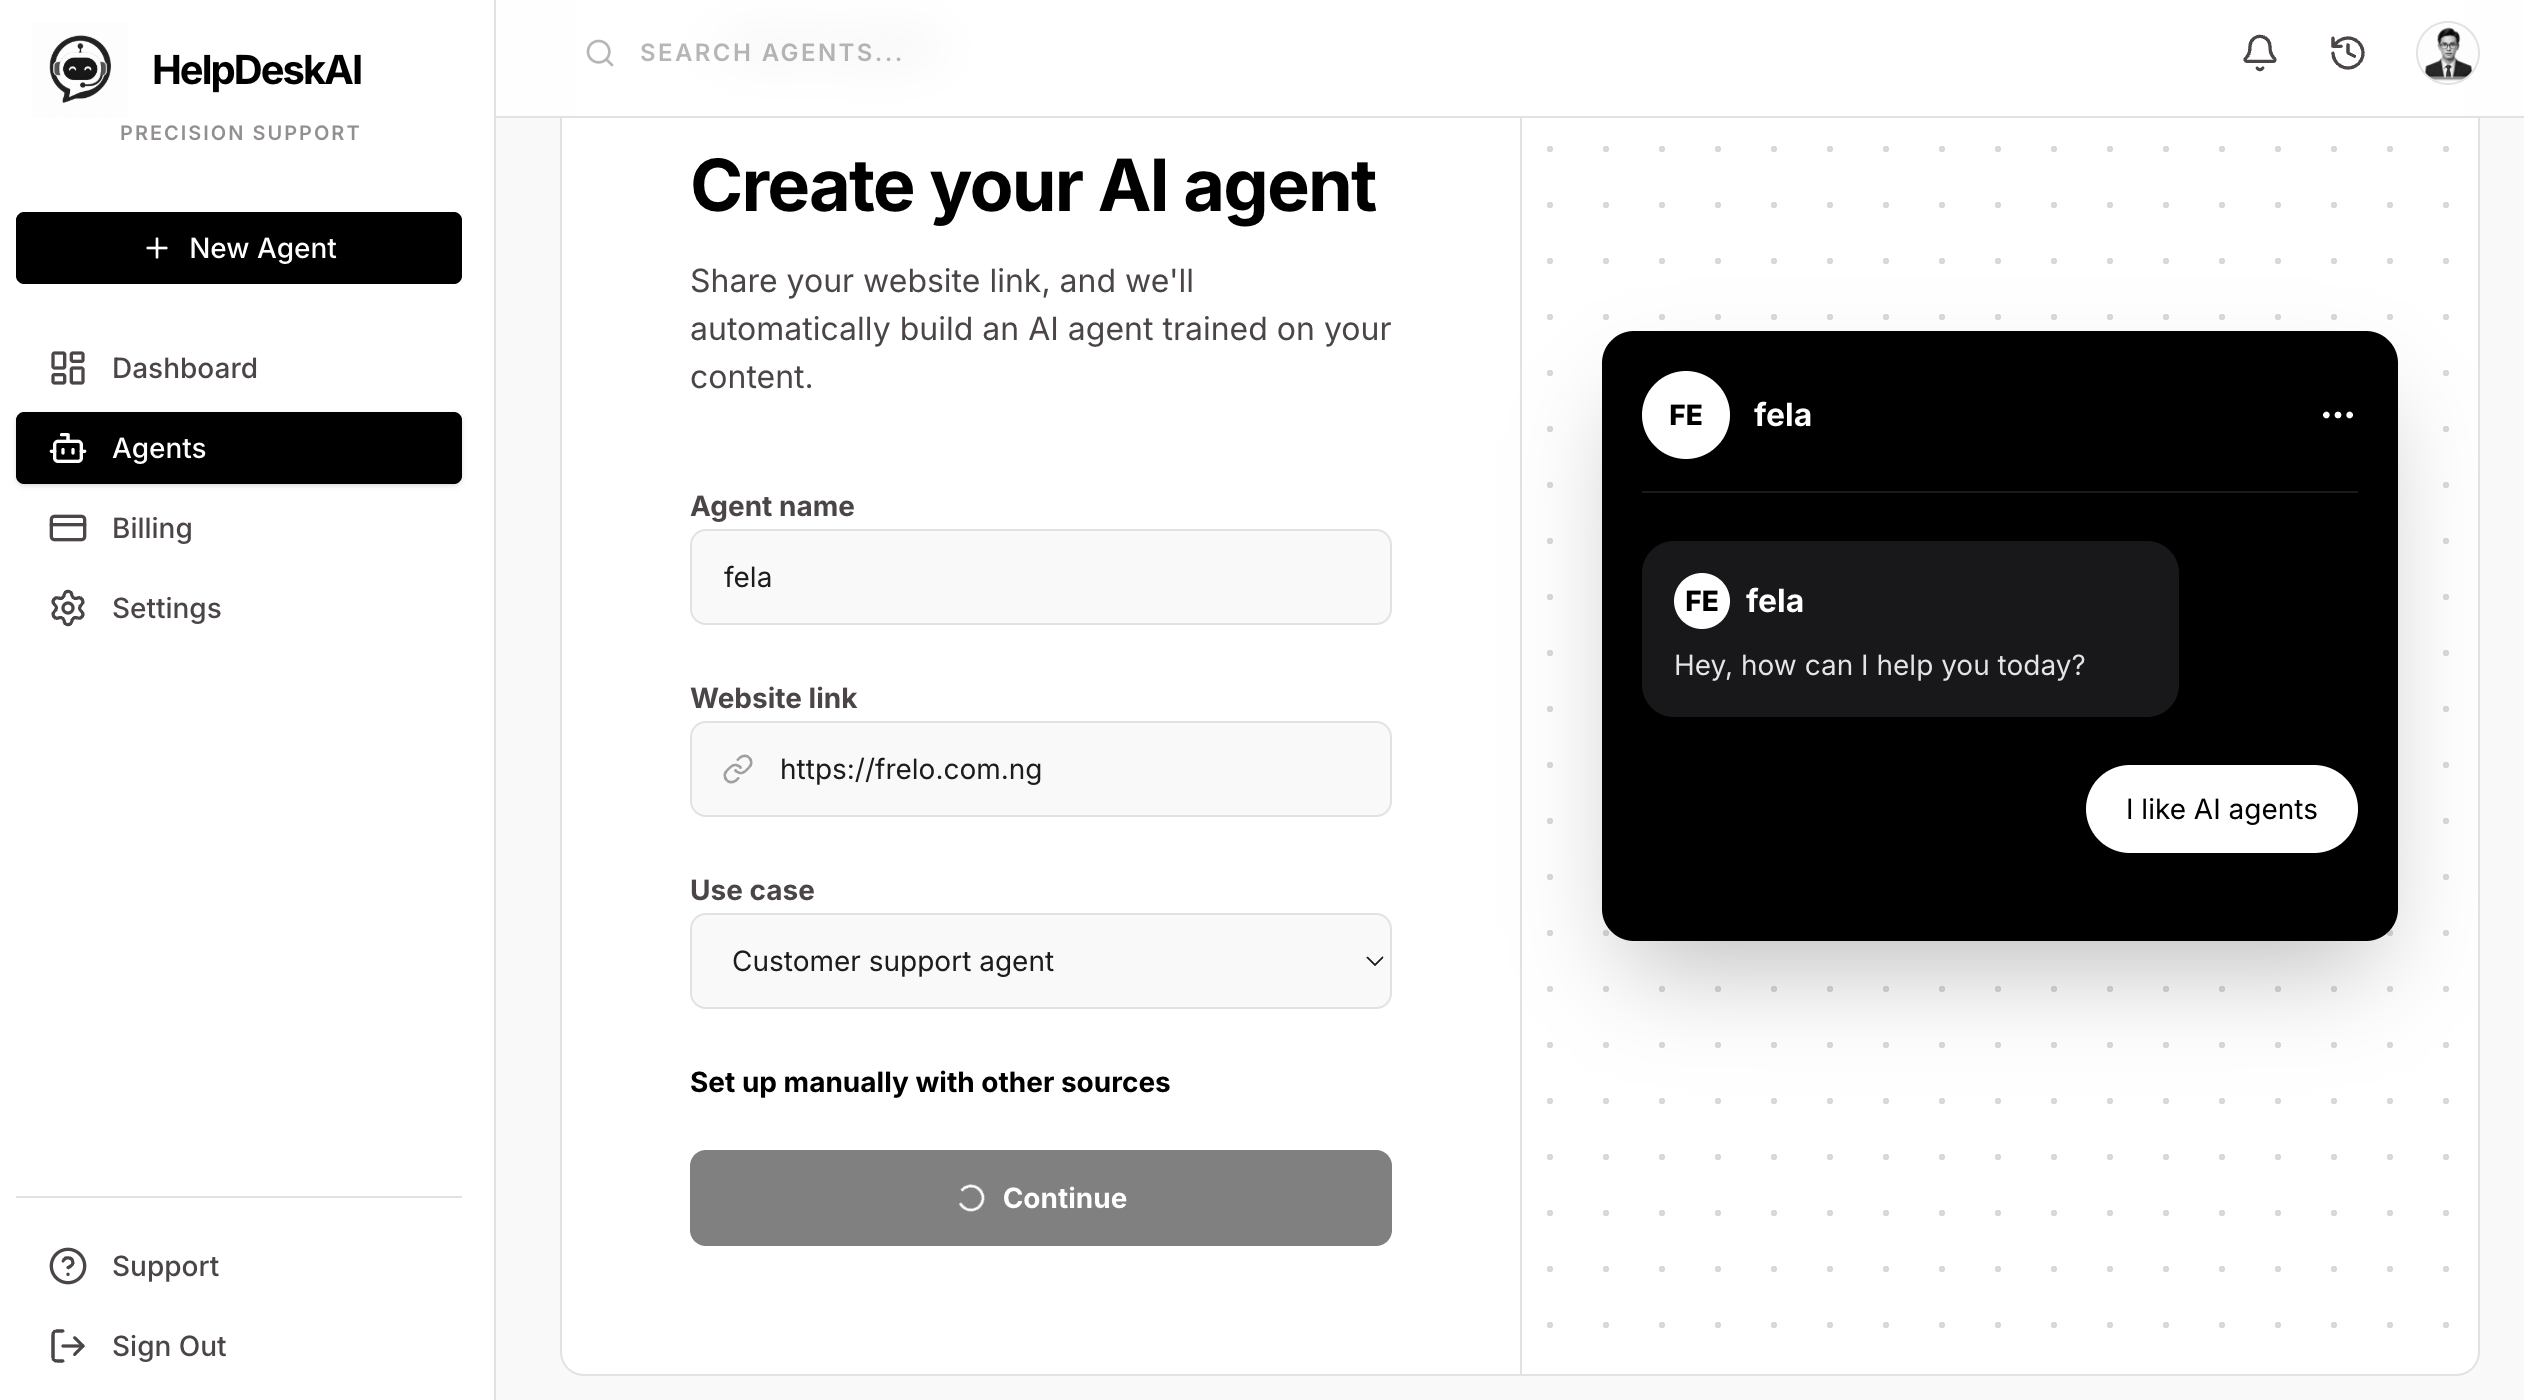
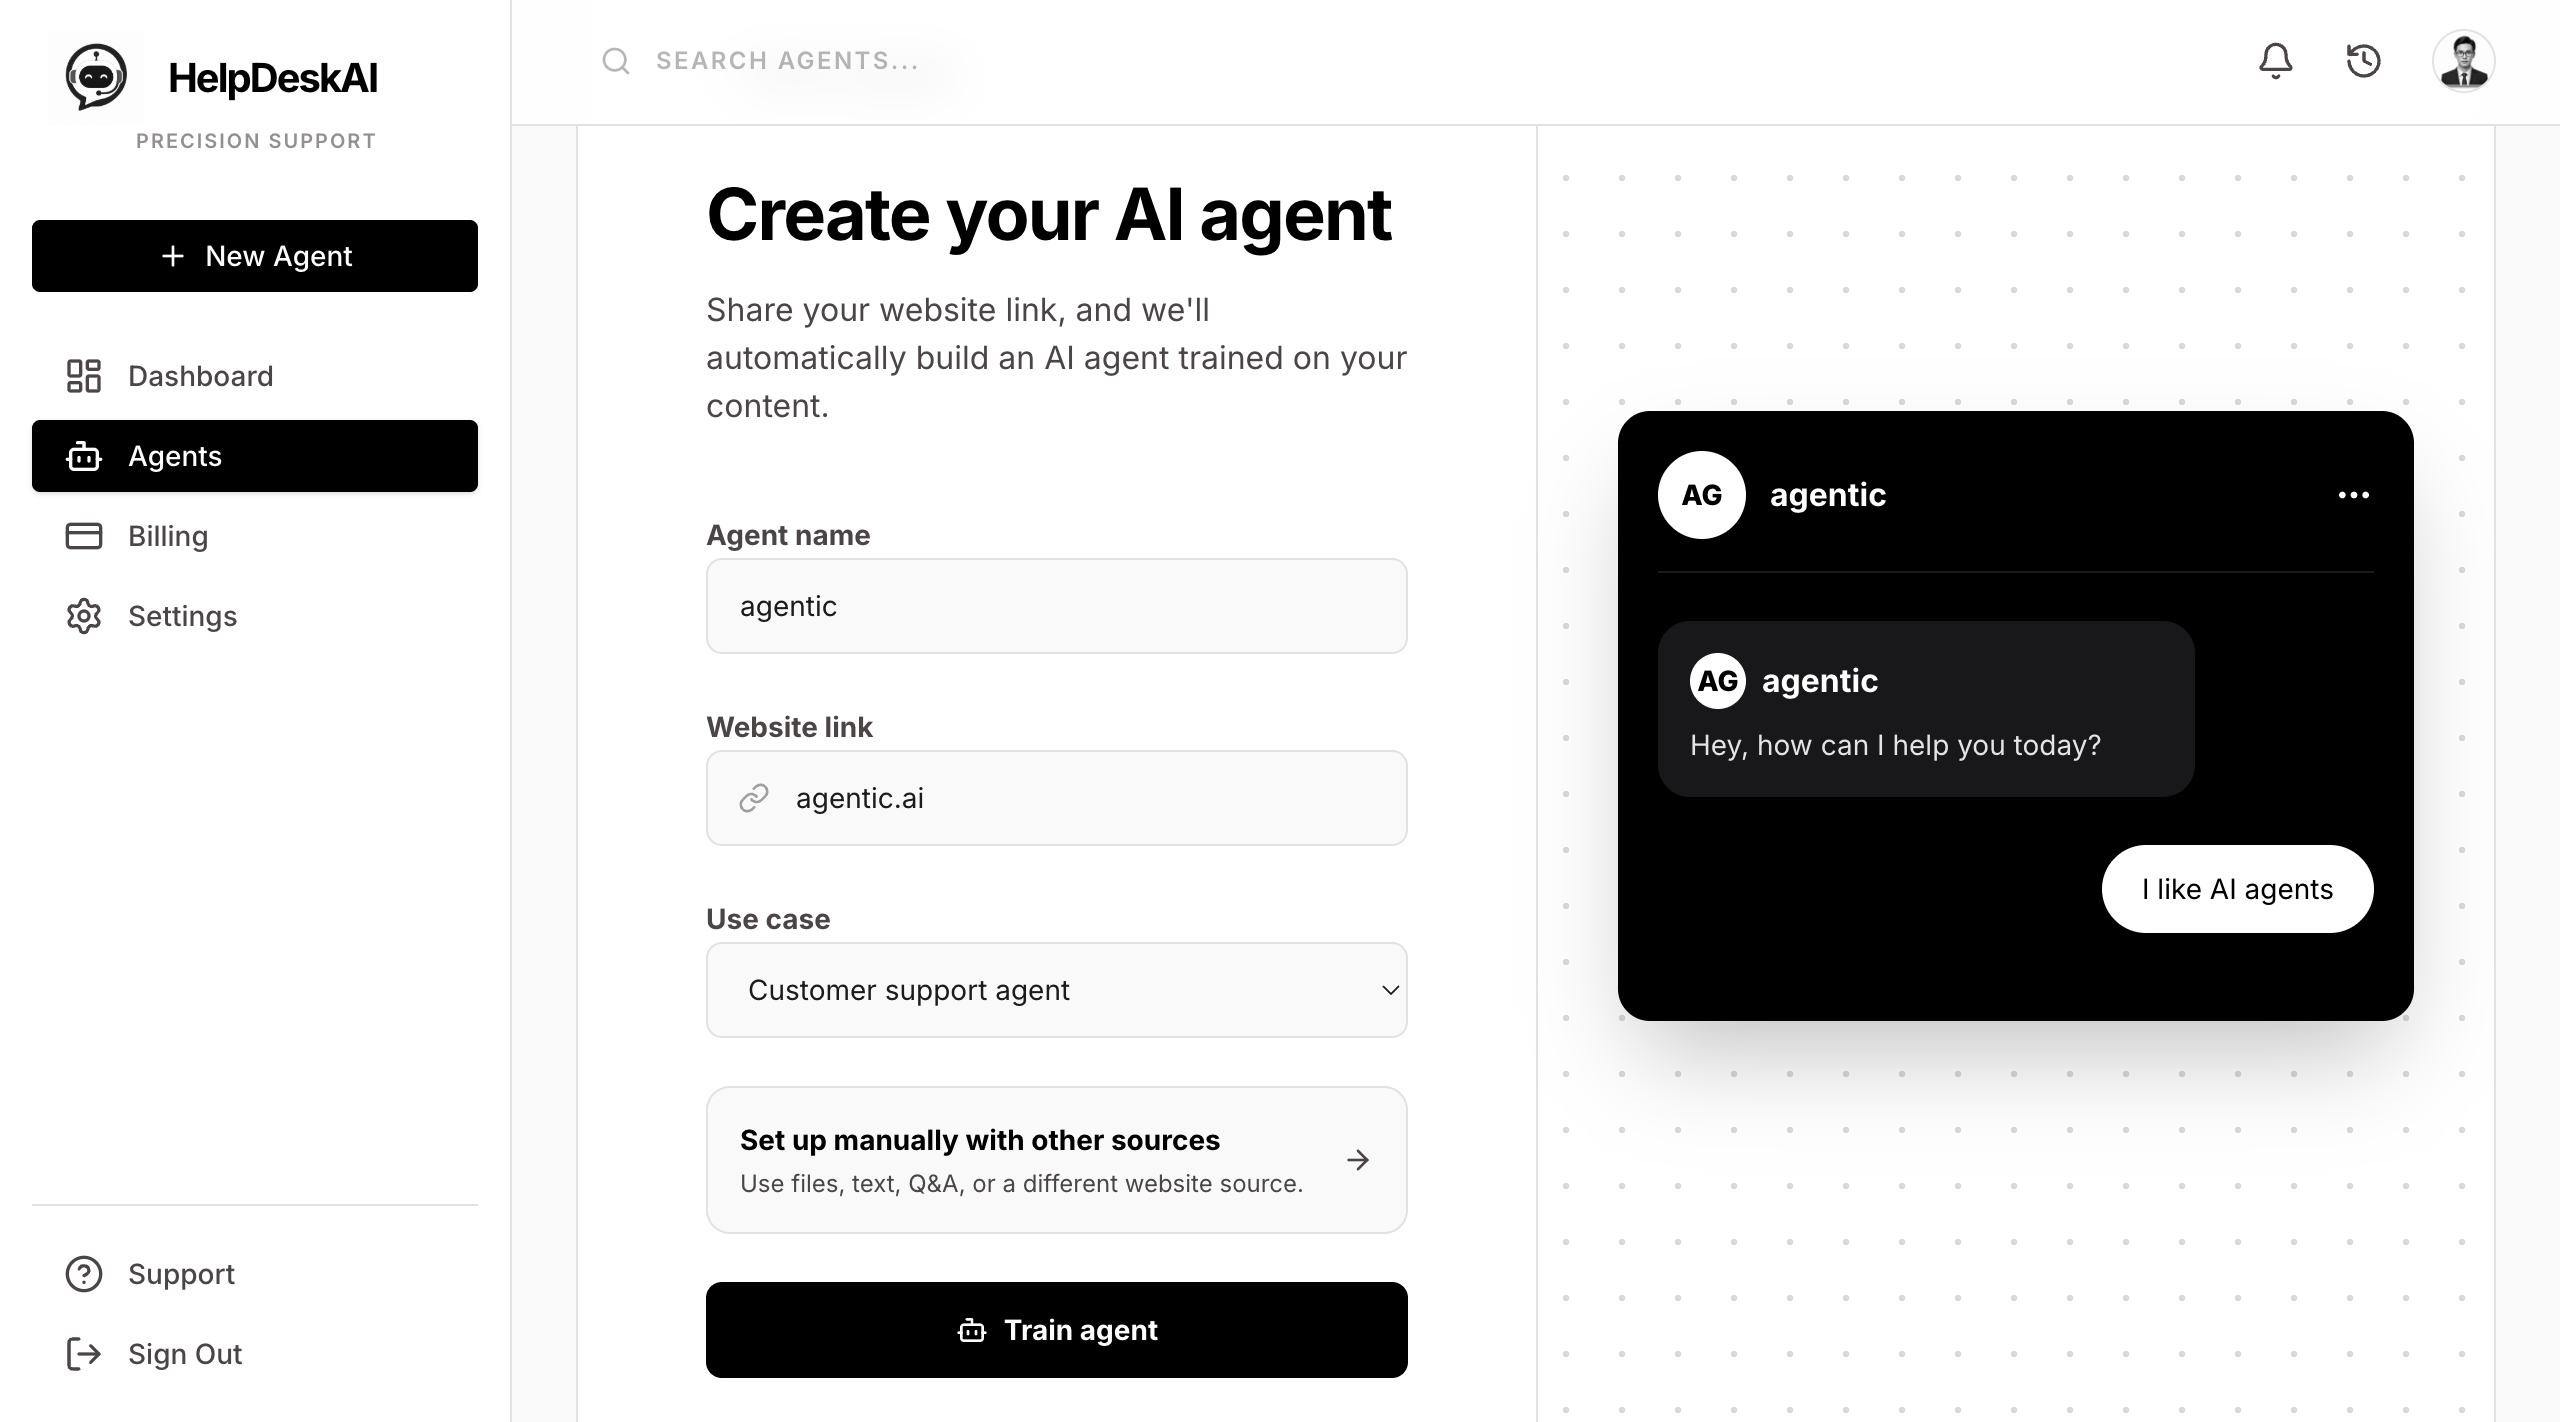
security audit

diff --git a/api/scrape/scrape.py b/api/scrape/scrape.py
@@ -16,7 +16,29 @@ class ScrapeRequest(BaseModel):
     url: str
 
 
+import socket
+import ipaddress
+from urllib.parse import urlparse
+
+def is_safe_url(url: str) -> bool:
+    try:
+        parsed = urlparse(url)
+        if parsed.scheme not in ("http", "https"):
+            return False
+        hostname = parsed.hostname
+        if not hostname:
+            return False
+        ip = socket.gethostbyname(hostname)
+        ip_obj = ipaddress.ip_address(ip)
+        if ip_obj.is_private or ip_obj.is_loopback or ip_obj.is_link_local or ip_obj.is_multicast:
+            return False
+        return True
+    except Exception:
+        return False
+
 async def scrape_url_content(url: str) -> dict:
+    if not is_safe_url(url):
+        raise HTTPException(status_code=400, detail="Invalid or restricted URL provided")
     # Returns dict with 'text', 'title', and 'timestamp' for compatibility
     try:
         async with httpx.AsyncClient(timeout=10.0) as client:

diff --git a/api/storage/upload.py b/api/storage/upload.py
@@ -24,9 +24,16 @@ async def upload_file(agent_id: str = Form(...), file: UploadFile = File(...), l
     # Check quota limits
     check_files_quota(db, user)
 
-    # Read file content
-    file_content = await file.read()
-    file_size_bytes = len(file_content)
+    # Read file content with size limit
+    MAX_FILE_SIZE = 10 * 1024 * 1024  # 10 MB limit
+    file_size_bytes = 0
+    chunks = []
+    while chunk := await file.read(1024 * 1024):
+        file_size_bytes += len(chunk)
+        if file_size_bytes > MAX_FILE_SIZE:
+            raise HTTPException(status_code=413, detail="File too large. Maximum size is 10MB.")
+        chunks.append(chunk)
+    file_content = b"".join(chunks)
     
     # Check storage quota
     check_storage_quota(db, user, file_size_bytes)

diff --git a/api/agents/widget_deployment.py b/api/agents/widget_deployment.py
@@ -113,10 +113,21 @@ def _visitor_hash(deployment_id: int, visitor_id: str, request: Request) -> str:
     return hashlib.sha256(value.encode("utf-8")).hexdigest()
 
 
+MAX_RATE_BUCKETS = 10000
+
 def _check_rate_limit(deployment_public_id: str, visitor_id: str, request: Request) -> None:
     ip = request.client.host if request.client else "unknown"
     key = f"{deployment_public_id}:{ip}:{visitor_id}"
     now = time.time()
+
+    if len(_rate_buckets) > MAX_RATE_BUCKETS:
+        for k in list(_rate_buckets.keys()):
+            _rate_buckets[k] = [stamp for stamp in _rate_buckets[k] if now - stamp < RATE_LIMIT_WINDOW_SECONDS]
+            if not _rate_buckets[k]:
+                del _rate_buckets[k]
+        if len(_rate_buckets) > MAX_RATE_BUCKETS:
+            _rate_buckets.clear()
+
     bucket = [stamp for stamp in _rate_buckets.get(key, []) if now - stamp < RATE_LIMIT_WINDOW_SECONDS]
     if len(bucket) >= RATE_LIMIT_MAX_REQUESTS:
         raise HTTPException(status_code=429, detail="Too many messages. Please wait a moment.")

diff --git a/main.py b/main.py
@@ -44,9 +44,11 @@ async def validation_exception_handler(request: Request, exc: RequestValidationE
 app.state.limiter = limiter
 app.add_exception_handler(RateLimitExceeded, _rate_limit_exceeded_handler)
 
+import os
+
 app.add_middleware(
     CORSMiddleware,
-    allow_origins=["*"],
+    allow_origins=[os.getenv("FRONTEND_URL", "http://localhost:5173")],
     allow_credentials=True,
     allow_methods=["*"],
     allow_headers=["*"],

diff --git a/services/rag_service.py b/services/rag_service.py
@@ -98,11 +98,11 @@ def build_messages(
 ) -> list[dict[str, str]]:
     content = f"{system_prompt}\n\n{CONCISE_RUNTIME_INSTRUCTION}".strip()
     if context:
-        content = f"{content}\n\nRelevant context:\n{context}"
+        content = f"{content}\n\nRelevant context:\n<context>\n{context}\n</context>"
     messages = [{"role": "system", "content": content}]
     if history:
         messages.extend(history)
-    messages.append({"role": "user", "content": message})
+    messages.append({"role": "user", "content": f"<user_query>\n{message}\n</user_query>"})
     return messages
 
 

diff --git a/api/users/users.py b/api/users/users.py
@@ -57,6 +57,8 @@ def reset_credits(db: Session = Depends(get_db), user = Depends(get_current_user
     Manually reset a user's credits. In a production, this would be triggered
     by a scheduled job at the end of each billing cycle.
     """
+    if getattr(user, "user_type", "") != "admin":
+        raise HTTPException(status_code=403, detail="Forbidden: Admin access required")
     
     max_credits = user.get_max_credits()
     user.credits_remaining = max_credits

diff --git a/services/file_parser.py b/services/file_parser.py
@@ -3,7 +3,7 @@ from typing import BinaryIO
 import re
 from io import BytesIO
 from zipfile import ZipFile
-from xml.etree import ElementTree
+import defusedxml.ElementTree as ElementTree
 
 def extract_text_from_pdf_file(file: BinaryIO) -> str:
     reader = PdfReader(file)